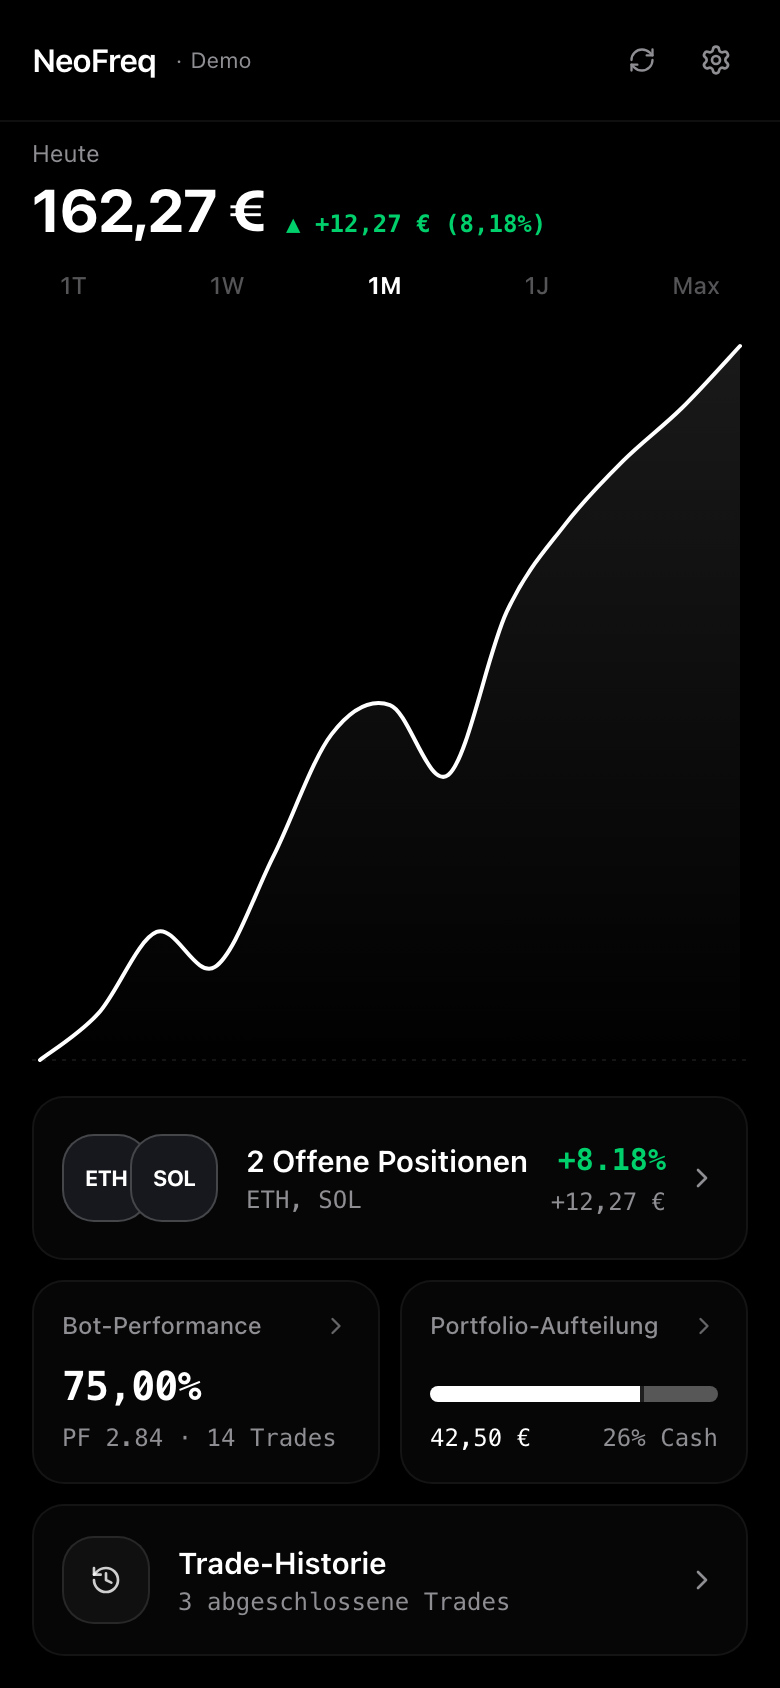
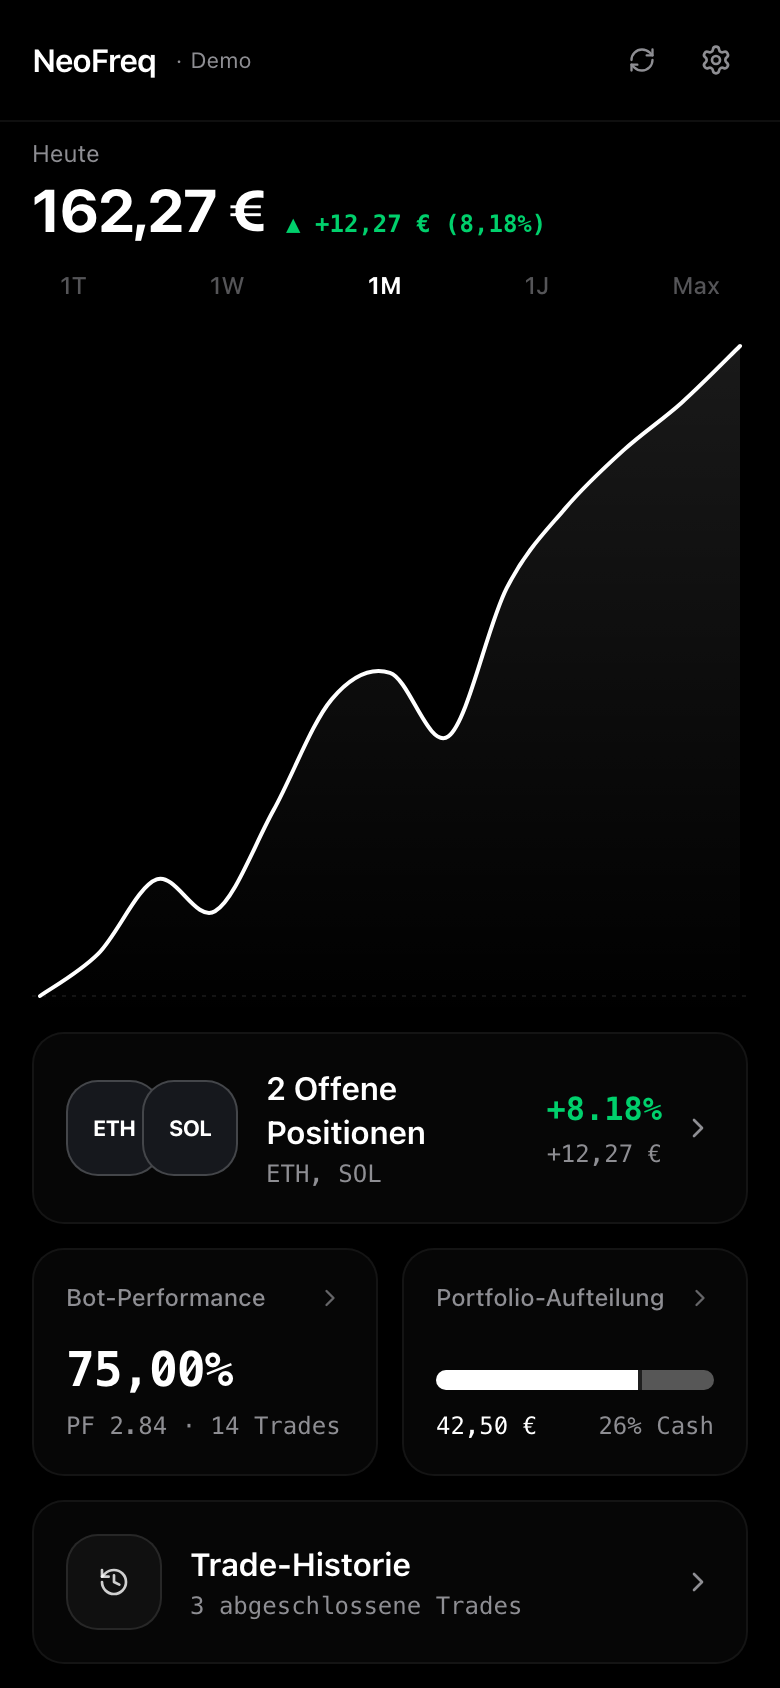
feat: eliminate mobile bottom dead zone and enlarge card heights for balanced screen utilization

diff --git a/src/App.tsx b/src/App.tsx
@@ -84,7 +84,7 @@ const MainDashboard: React.FC = () => {
     : t.common.offlineDesc;
 
   return (
-    <div className="fixed inset-0 lg:static lg:h-auto lg:max-h-none lg:overflow-visible bg-black text-white flex flex-col items-center selection:bg-white selection:text-black overflow-hidden pt-[env(safe-area-inset-top,0px)]">
+    <div className="fixed inset-0 h-[100dvh] max-h-[100dvh] lg:static lg:h-auto lg:max-h-none lg:overflow-visible bg-black text-white flex flex-col items-center selection:bg-white selection:text-black overflow-hidden pt-[env(safe-area-inset-top,0px)]">
       {/* Landscape Orientation Notice for mobile smartphones */}
       <LandscapeNotice />
 
@@ -128,7 +128,7 @@ const MainDashboard: React.FC = () => {
         {/* ---------------------------------------------------- */}
         {/* MOBILE VIEWPORT (100% No-Scroll, Full-Height Apple-Style Single Screen) */}
         {/* ---------------------------------------------------- */}
-        <div className="lg:hidden flex-1 flex flex-col px-4 pt-1 pb-[max(env(safe-area-inset-bottom,0px),12px)] overflow-hidden landscape:overflow-y-auto select-none min-h-0">
+        <div className="lg:hidden flex-1 flex flex-col px-4 pt-1 safe-bottom-dock overflow-hidden landscape:overflow-y-auto select-none min-h-0">
           {/* Top: Balance & Chart */}
           <div className="flex-1 flex flex-col min-h-0">
             <HeroBalance
@@ -151,11 +151,11 @@ const MainDashboard: React.FC = () => {
             />
           </div>
 
-          {/* Bottom Dock: Cohesive Card Stack with Tight Harmonious Spacing */}
-          <div className="flex flex-col gap-2.5 shrink-0 my-1">
+          {/* Bottom Dock: Generous Card Stack with Harmonious Proportions & Native Spacing */}
+          <div className="flex flex-col gap-3 shrink-0 pt-1">
             {/* Active Positions Card */}
             {openTrades.length === 0 ? (
-              <div className="tr-card p-4 min-h-[74px] flex items-center justify-between">
+              <div className="tr-card p-4 min-h-[80px] flex items-center justify-between">
                 <span className="text-sm text-tr-gray">{t.positions.emptyTitle}</span>
                 <span className="text-xs text-tr-gray/60 font-mono">
                   0 {t.positions.activeInMarket}
@@ -164,14 +164,14 @@ const MainDashboard: React.FC = () => {
             ) : openTrades.length === 1 ? (
               <div
                 onClick={() => setSelectedTrade(openTrades[0])}
-                className="tr-card p-3.5 sm:p-4 min-h-[82px] flex items-center justify-between cursor-pointer active:bg-white/[0.06] transition-colors"
+                className="tr-card p-4 min-h-[88px] flex items-center justify-between cursor-pointer active:bg-white/[0.06] transition-colors"
               >
                 <div className="flex items-center space-x-3.5 min-w-0">
-                  <div className="w-11 h-11 rounded-2xl bg-white/[0.06] border border-white/10 flex items-center justify-center text-xs font-bold text-white shrink-0">
+                  <div className="w-12 h-12 rounded-2xl bg-white/[0.06] border border-white/10 flex items-center justify-center text-xs font-bold text-white shrink-0">
                     {(openTrades[0].base_currency || openTrades[0].pair.split('/')[0]).slice(0, 4)}
                   </div>
                   <div className="min-w-0">
-                    <div className="text-[15px] font-semibold text-white truncate leading-snug">
+                    <div className="text-base font-semibold text-white truncate leading-snug">
                       {openTrades[0].pair}
                     </div>
                     <div className="text-xs text-tr-gray font-mono mt-0.5">
@@ -182,7 +182,7 @@ const MainDashboard: React.FC = () => {
                 <div className="flex items-center space-x-2.5 shrink-0 pl-2">
                   <div className="text-right">
                     <div
-                      className={`text-[15px] font-mono font-semibold ${
+                      className={`text-base font-mono font-semibold ${
                         openTrades[0].profit_pct >= 0 ? 'text-tr-green' : 'text-tr-red'
                       }`}
                     >
@@ -199,7 +199,7 @@ const MainDashboard: React.FC = () => {
             ) : (
               <div
                 onClick={() => setIsPositionsListOpen(true)}
-                className="tr-card p-3.5 sm:p-4 min-h-[82px] flex items-center justify-between cursor-pointer active:bg-white/[0.06] transition-colors"
+                className="tr-card p-4 min-h-[88px] flex items-center justify-between cursor-pointer active:bg-white/[0.06] transition-colors"
               >
                 <div className="flex items-center space-x-3.5 min-w-0">
                   <div className="flex -space-x-2.5 overflow-hidden shrink-0">
@@ -208,7 +208,7 @@ const MainDashboard: React.FC = () => {
                       return (
                         <div
                           key={trade.trade_id}
-                          className="w-11 h-11 rounded-2xl bg-[#16181D] border border-white/20 flex items-center justify-center text-[11px] font-bold text-white tracking-tighter"
+                          className="w-12 h-12 rounded-2xl bg-[#16181D] border border-white/20 flex items-center justify-center text-[11px] font-bold text-white tracking-tighter"
                         >
                           {coin.slice(0, 3)}
                         </div>
@@ -216,7 +216,7 @@ const MainDashboard: React.FC = () => {
                     })}
                   </div>
                   <div className="min-w-0">
-                    <div className="text-[15px] font-semibold text-white leading-snug">
+                    <div className="text-base font-semibold text-white leading-snug">
                       {openTrades.length} {t.positions.title}
                     </div>
                     <div className="text-xs text-tr-gray truncate font-mono mt-0.5">
@@ -227,7 +227,7 @@ const MainDashboard: React.FC = () => {
                 <div className="flex items-center space-x-2.5 shrink-0 pl-2">
                   <div className="text-right">
                     <div
-                      className={`text-[15px] font-mono font-semibold ${
+                      className={`text-base font-mono font-semibold ${
                         profitAbs >= 0 ? 'text-tr-green' : 'text-tr-red'
                       }`}
                     >
@@ -244,18 +244,18 @@ const MainDashboard: React.FC = () => {
             )}
 
             {/* Quick Insights Row (2 Columns: Performance & Allocation) */}
-            <div className="grid grid-cols-2 gap-2.5">
+            <div className="grid grid-cols-2 gap-3">
               {/* Performance Tile */}
               <div
                 onClick={() => setIsMetricsOpen(true)}
-                className="tr-card p-3.5 sm:p-4 cursor-pointer active:bg-white/[0.06] transition-colors flex flex-col justify-between min-h-[102px]"
+                className="tr-card p-4 cursor-pointer active:bg-white/[0.06] transition-colors flex flex-col justify-between min-h-[114px]"
               >
                 <div className="flex items-center justify-between text-tr-gray text-xs font-medium">
                   <span>{t.metrics.title}</span>
                   <ChevronRight className="w-3.5 h-3.5 text-tr-gray/70" />
                 </div>
                 <div className="mt-2">
-                  <div className="text-xl sm:text-2xl font-bold font-mono text-white tracking-tight">
+                  <div className="text-2xl font-bold font-mono text-white tracking-tight">
                     {profit ? formatPercent(profit.winrate * 100) : '—'}
                   </div>
                   <div className="text-xs text-tr-gray font-mono mt-1">
@@ -267,14 +267,14 @@ const MainDashboard: React.FC = () => {
               {/* Allocation Tile */}
               <div
                 onClick={() => setIsAllocationOpen(true)}
-                className="tr-card p-3.5 sm:p-4 cursor-pointer active:bg-white/[0.06] transition-colors flex flex-col justify-between min-h-[102px]"
+                className="tr-card p-4 cursor-pointer active:bg-white/[0.06] transition-colors flex flex-col justify-between min-h-[114px]"
               >
                 <div className="flex items-center justify-between text-tr-gray text-xs font-medium">
                   <span>{t.allocation.title}</span>
                   <ChevronRight className="w-3.5 h-3.5 text-tr-gray/70" />
                 </div>
                 <div className="mt-2">
-                  <div className="w-full h-2 bg-white/10 rounded-full overflow-hidden flex mb-2.5">
+                  <div className="w-full h-2.5 bg-white/10 rounded-full overflow-hidden flex mb-2.5">
                     <div
                       style={{ width: `${Math.max(1, Math.min(99, cryptoPct))}%` }}
                       className="h-full bg-white transition-all duration-300"
@@ -295,14 +295,14 @@ const MainDashboard: React.FC = () => {
             {/* Trade History Compact Card */}
             <div
               onClick={() => setIsHistoryOpen(true)}
-              className="tr-card p-3.5 sm:p-4 min-h-[76px] flex items-center justify-between cursor-pointer active:bg-white/[0.06] transition-colors"
+              className="tr-card p-4 min-h-[82px] flex items-center justify-between cursor-pointer active:bg-white/[0.06] transition-colors"
             >
               <div className="flex items-center space-x-3.5 min-w-0">
-                <div className="w-11 h-11 rounded-2xl bg-white/[0.04] border border-white/10 flex items-center justify-center text-tr-gray shrink-0">
+                <div className="w-12 h-12 rounded-2xl bg-white/[0.04] border border-white/10 flex items-center justify-center text-tr-gray shrink-0">
                   <History className="w-4 h-4 text-white/80" />
                 </div>
                 <div className="min-w-0 flex-1">
-                  <span className="text-[15px] font-semibold text-white block leading-snug">
+                  <span className="text-base font-semibold text-white block leading-snug">
                     {t.history.title}
                   </span>
                   <span className="text-xs text-tr-gray font-mono mt-0.5 block whitespace-nowrap">

diff --git a/src/index.css b/src/index.css
@@ -82,3 +82,8 @@ html, body {
   -ms-overflow-style: none;
   scrollbar-width: none;
 }
+
+/* Responsive bottom dock padding: sits cleanly right above the iOS home indicator */
+.safe-bottom-dock {
+  padding-bottom: max(calc(env(safe-area-inset-bottom, 0px) - 18px), 12px);
+}
